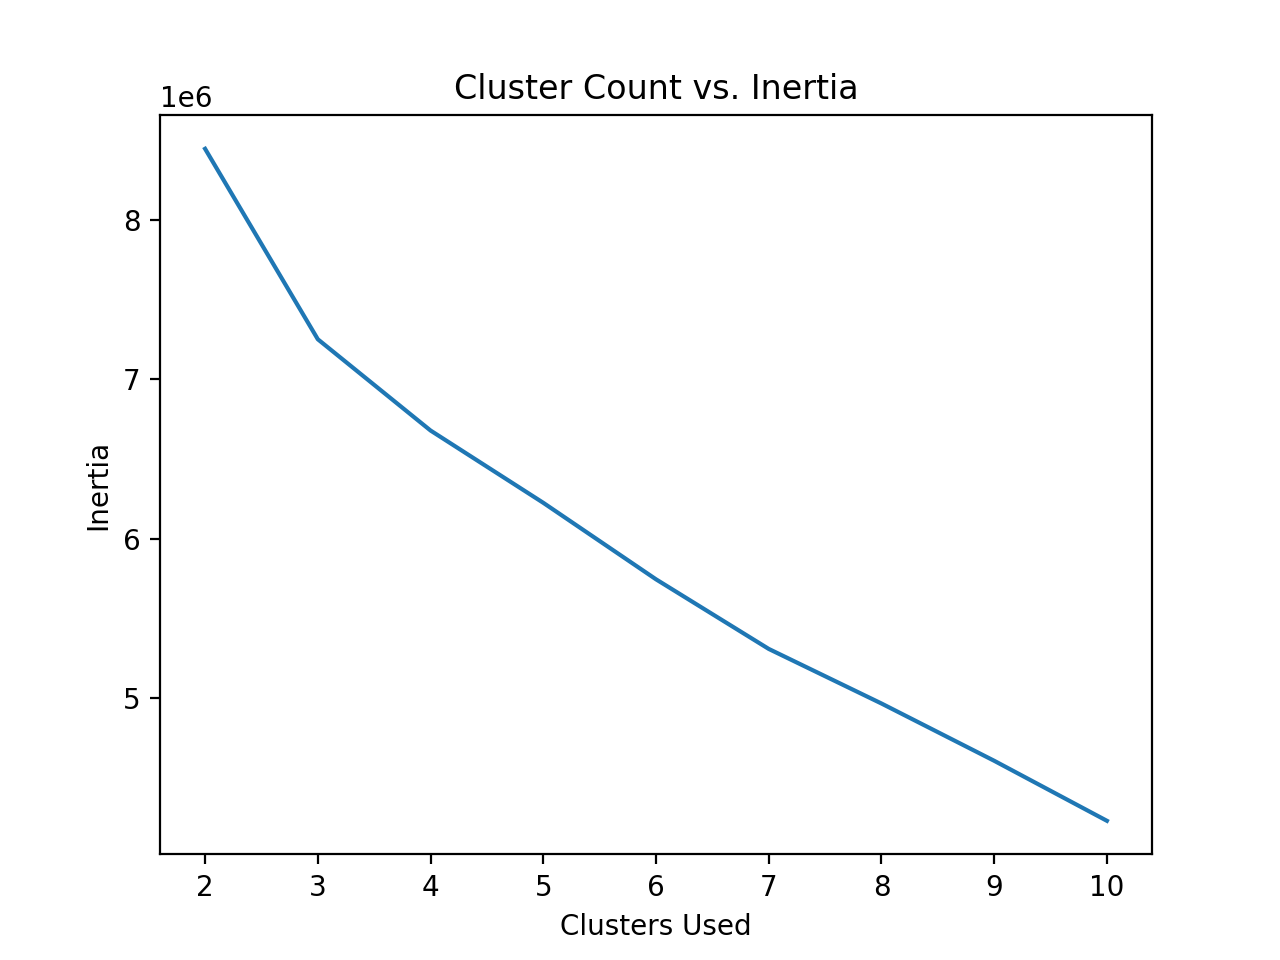
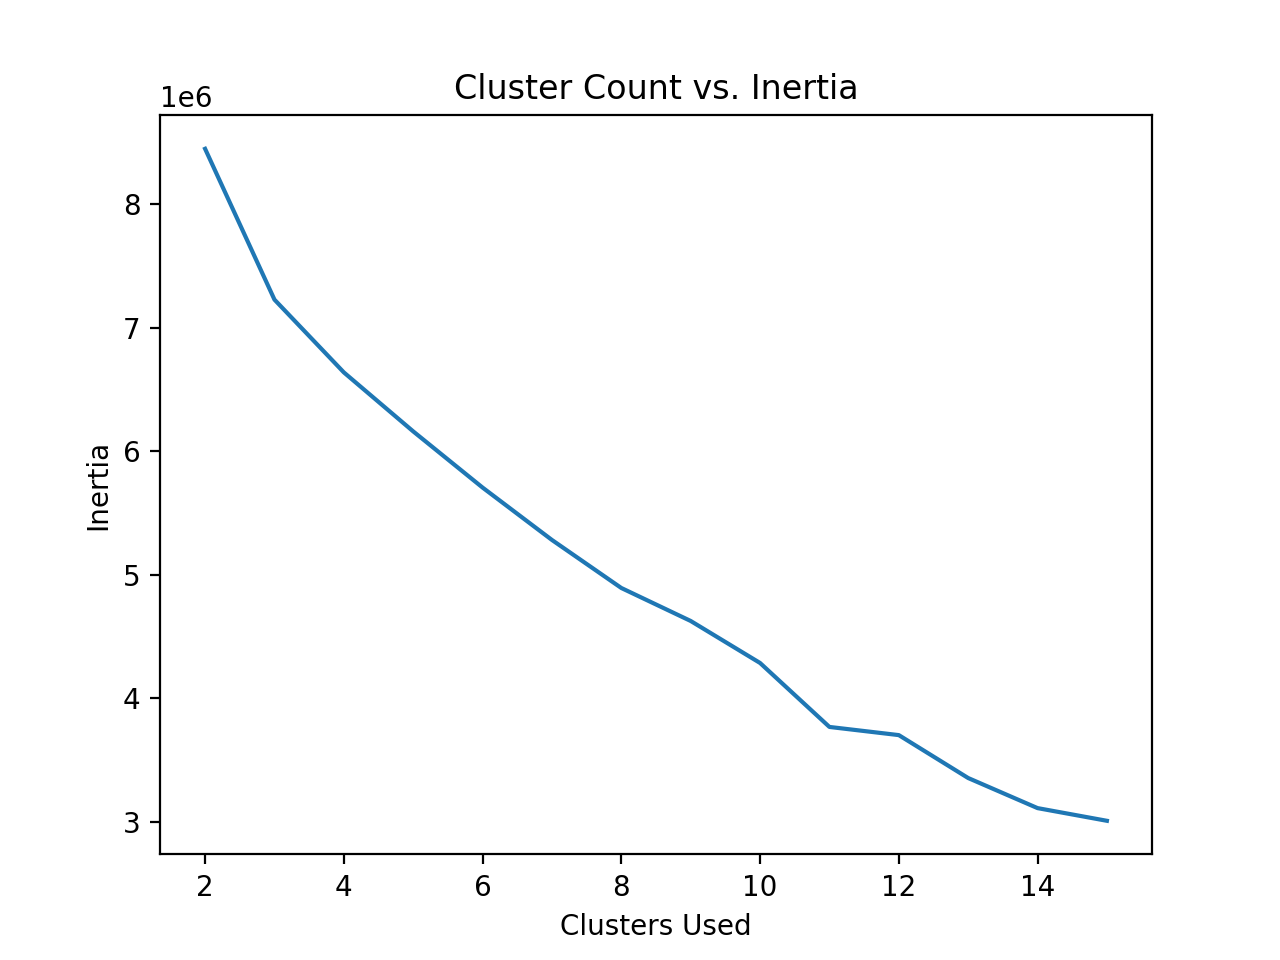
updated elbow curve

diff --git a/src/analysis.py b/src/analysis.py
@@ -4,7 +4,8 @@ import matplotlib.pyplot as plt
 import numpy as np
 
 from clustering import Clustering
-from main import subdir
+
+subdir = "028" # change this
 
 labels = []
 var = []
@@ -35,11 +36,9 @@ def plot_variance_ratio():
 def KMeans_Optimal_Clusters():
     labels = []
     objective_values = []
-    for k in range(2, 11):
+    for k in range(2, 16):
         k_clustering = Clustering(num_clusters=k)
-
         _, inertia_k = k_clustering.cluster_images_kmeans(u_subdir=subdir)
-        print(inertia_k)
         labels.append(k)
         objective_values.append(inertia_k)
     
